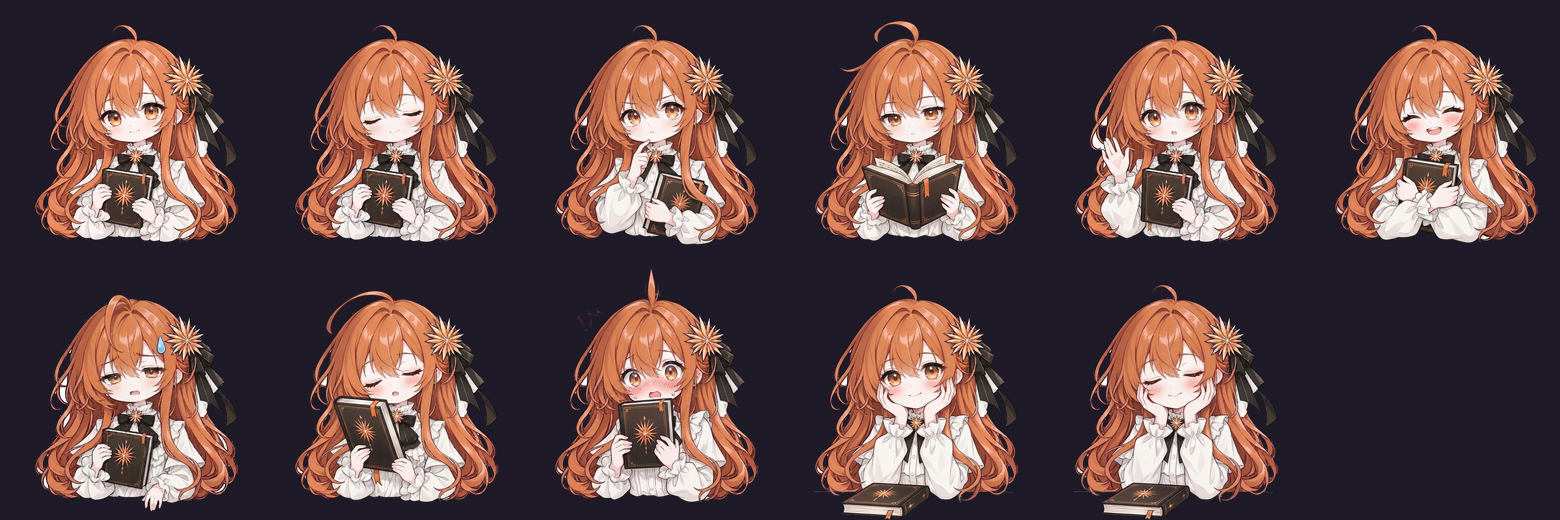
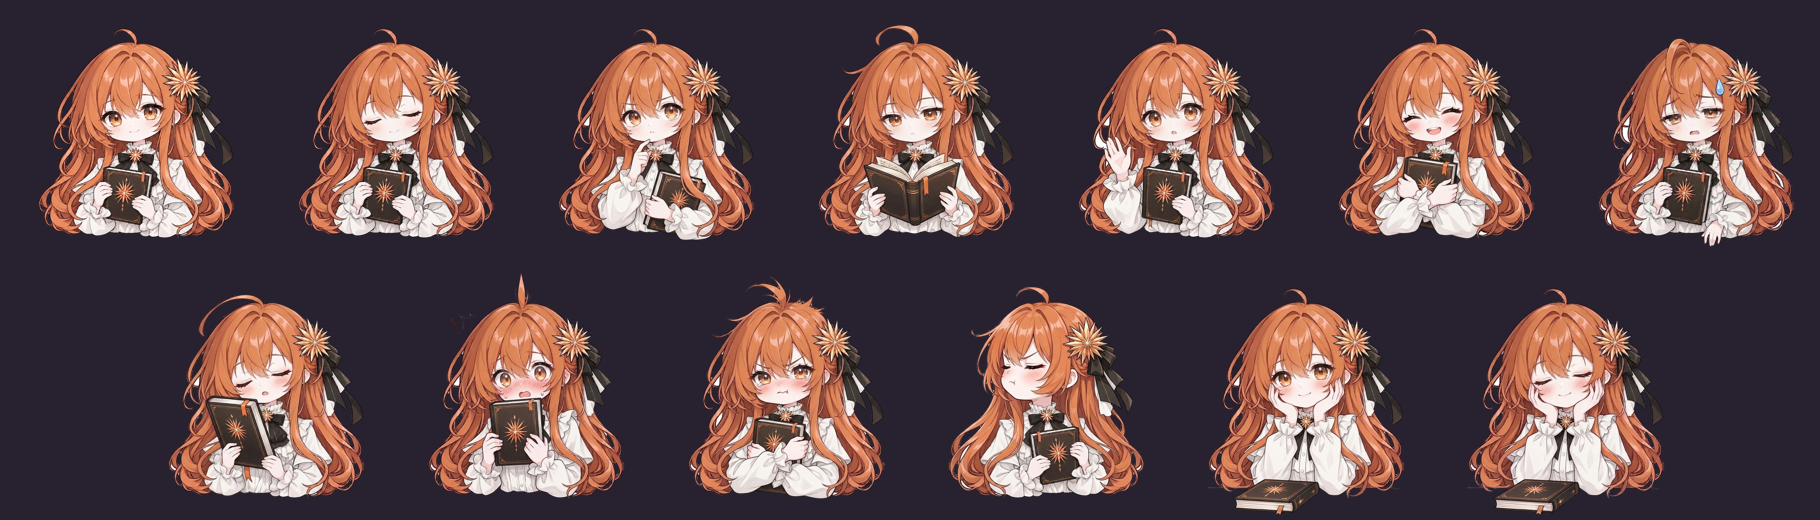
生气的大小姐：鼓腮瞪你，再扭头不理你
- art/pout_v1.jpg → cut/pout.png：头发炸起来、眼角挂泪、鼓腮，把书抱紧
- art/huff_v1.jpg → cut/huff.png：闭眼扭头"哼"。原图被 Gemini 左右翻转了（发饰跑到左边），
  这里翻转回来并右移 51 像素，让发饰和人物中心都和其他表情对齐；原图存为 huff_v1_raw.jpg
- README：表情表格加上连戳生气和小得意，总览图更新为 13 张
- gallery.html：加上鼓腮、扭头；累了换成呆毛蔫掉的 v3

diff --git a/gallery.html b/gallery.html
@@ -28,7 +28,7 @@
 const states = [
   ['待机', 'base_v5_gemini.jpg'], ['眨眼', 'blink_v1.jpg'], ['思考中', 'think_v1.jpg'],
   ['干活中', 'work_v1.jpg'], ['等你确认', 'ask_v1.jpg'], ['完成', 'happy_v1.jpg'],
-  ['累了', 'tired_v2.jpg'], ['睡着', 'sleep_v1.jpg'], ['被点到', 'poke_v1.jpg'], ['托腮看着你', 'gaze_v1.jpg'],
+  ['累了', 'tired_v3.jpg'], ['睡着', 'sleep_v1.jpg'], ['被点到', 'poke_v1.jpg'], ['托腮看着你', 'gaze_v1.jpg'], ['鼓腮生气', 'pout_v1.jpg'], ['扭头不理你', 'huff_v1.jpg'],
 ];
 const a = document.getElementById('a'), b = document.getElementById('b');
 const stage = document.getElementById('stage'), label = document.getElementById('label'), grid = document.getElementById('grid');

diff --git a/README.md b/README.md
@@ -12,7 +12,7 @@
 
 ![全部表情](art/cut_check.png)
 
-<sub>从左到右：待机、眨眼、思考、干活、等你确认、开心 / 累了、睡着、被点到、托腮、托腮眨眼</sub>
+<sub>从左到右：待机、眨眼、思考、干活、等你确认、开心、累了 / 睡着、被点到、鼓腮生气、扭头不理你、托腮、托腮眨眼</sub>
 
 **跟着 Claude 的状态换表情**
 
@@ -27,6 +27,8 @@
 | 你一分半钟没说话 | 放下书，托着下巴静静看着你 |
 | 15 分钟没动静 | 抱着书睡着，头顶冒 z |
 | 你点她 | 呆毛竖起来，吓一跳 |
+| 你连着戳她三下 | 鼓着腮帮子瞪你，然后扭过头去不理你，5 秒后才转回来 |
+| 一轮里改了 3 个以上文件 | 多开心一会儿，头边有小星星闪，气泡写「改了 N 个文件」 |
 | 你离开电脑 10 分钟以上又回来 | 挥挥手；如果睡着了会醒过来，托着下巴看你 |
 
 **头顶的气泡**：只说事实，「在读 xxx.py」「在运行命令」「需要你确认一下」「做完啦」。出错时变红。凌晨做完事会顺便说一句现在几点。
